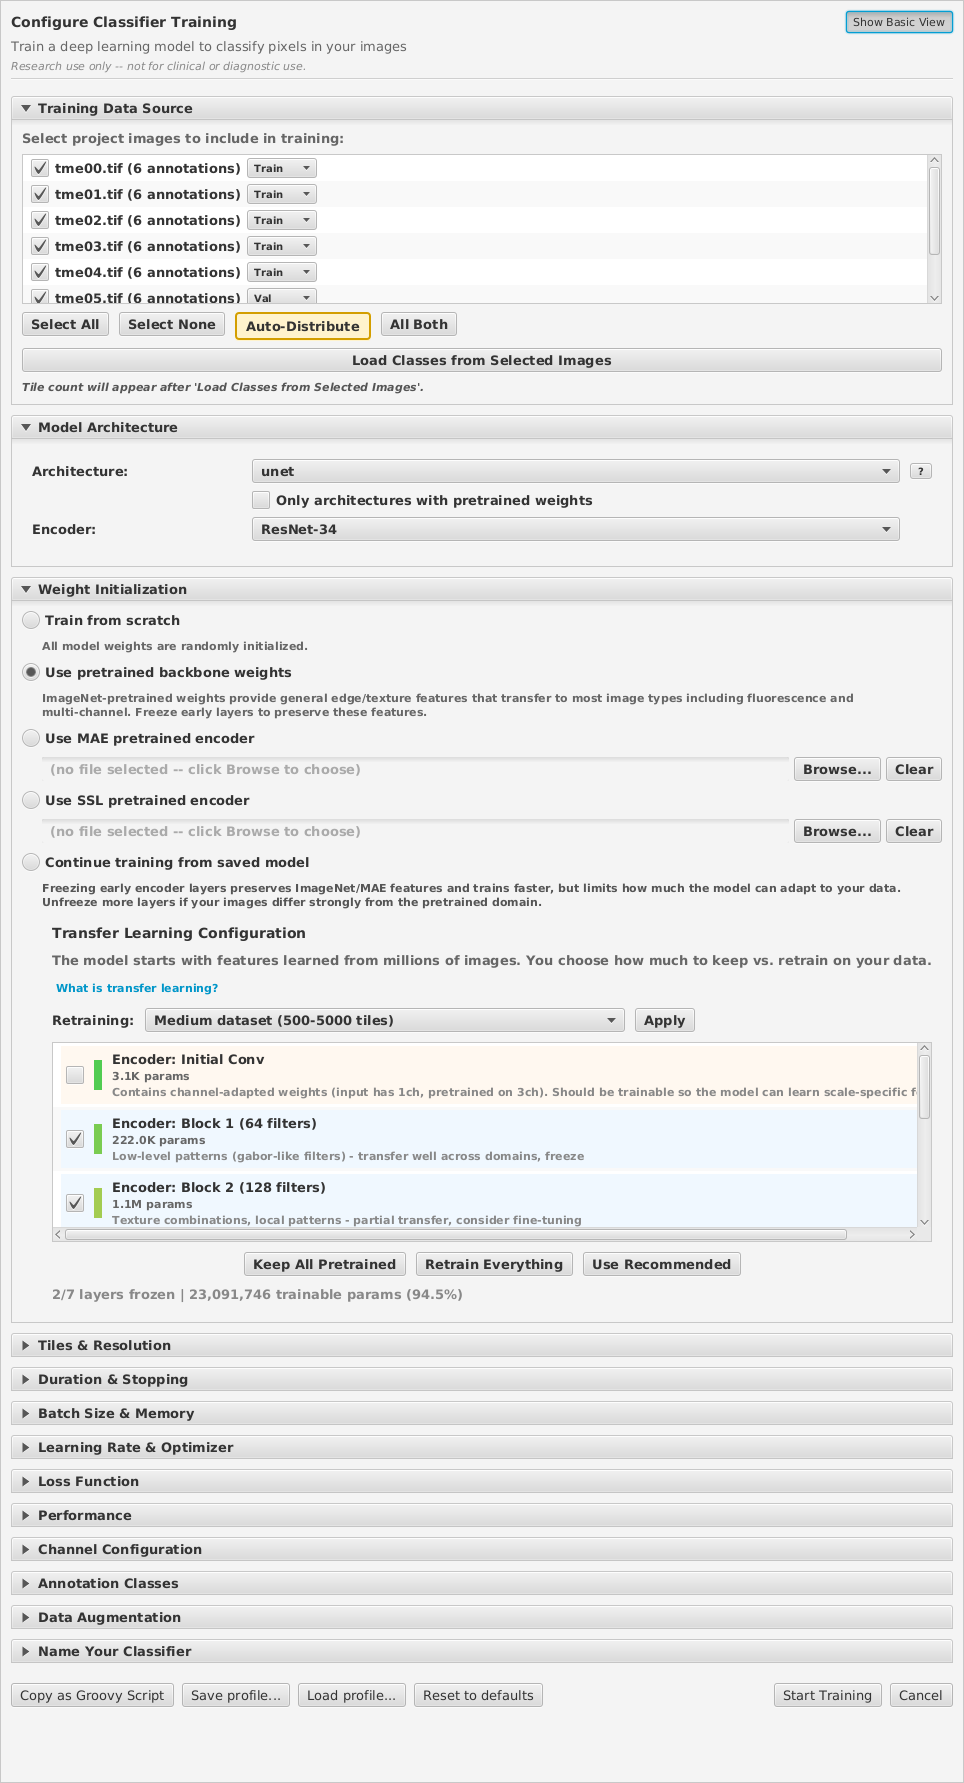
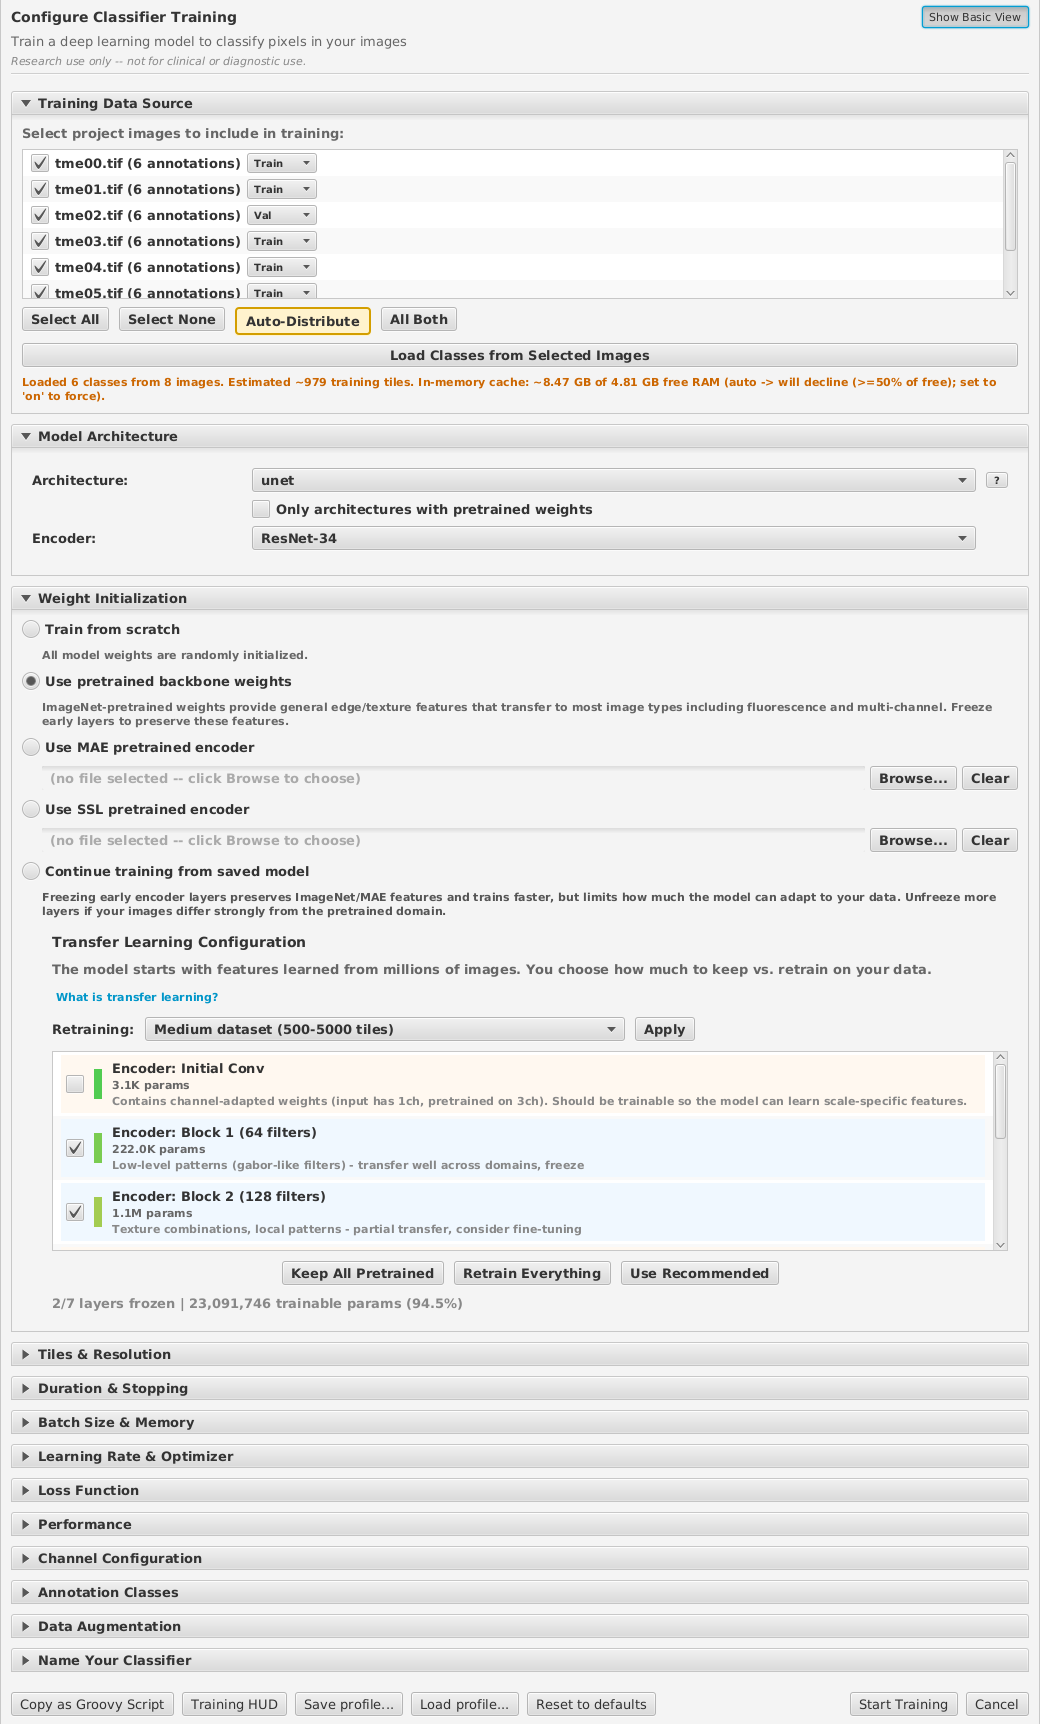
fix(train): the RAM-cache warning colour was always painted over green
updateTileEstimateLabel set the label green AFTER appendInMemoryCacheEstimate
had set it orange (cache declined) or red (cache larger than free RAM), so
every warning rendered green. Found when re-rendering the Train dialog
figure: the line said "auto -> will decline" in green. The default is now set
first.

Also re-renders docs/images/train-dialog-configure-classifier.png through
harness/DlTrainingDialogShotScenario (it gains the Training HUD button and the
loaded estimate line), with the machine-local "unfinished training" banner
cropped off, and updates its alt text.

Claude-Session: https://claude.ai/code/session_01N4ZFToSsHCjtBUjwWur5XU

diff --git a/src/main/java/qupath/ext/dlclassifier/ui/TrainingDialog.java b/src/main/java/qupath/ext/dlclassifier/ui/TrainingDialog.java
@@ -5929,10 +5929,13 @@ public class TrainingDialog {
             StringBuilder sb = new StringBuilder();
             sb.append(String.format(
                     "Loaded %d classes from %d images. Estimated ~%,d training tiles.", classCount, imageCount, est));
+            // Reset placeholder italic styling now that the real estimate is
+            // shown -- BEFORE the cache estimate, which sets orange or red when
+            // the cache will be declined or overflow RAM. This used to run
+            // after it, so the warning colour was always painted over green.
+            tileEstimateLabel.setStyle("-fx-text-fill: #2a7a2a; -fx-font-size: 11px;");
             appendInMemoryCacheEstimate(sb, est);
             tileEstimateLabel.setText(sb.toString());
-            // Reset placeholder italic styling now that the real estimate is shown.
-            tileEstimateLabel.setStyle("-fx-text-fill: #2a7a2a; -fx-font-size: 11px;");
             tileEstimateLabel.setVisible(true);
             tileEstimateLabel.setManaged(true);
         }

diff --git a/docs/TRAINING_GUIDE.md b/docs/TRAINING_GUIDE.md
@@ -40,7 +40,7 @@ Go to **Extensions > DL Pixel Classifier > Train DL Pixel Classifier...**
 
 The dialog opens in **Basic mode** by default, showing only the essentials: Training Data Source, Annotation Classes, and Classifier Name. Click **"Show All Settings"** in the header to reveal all configuration options. The mode is remembered across sessions.
 
-![Configure Classifier Training dialog in its advanced view. Training Data Source lists the project images, each with a checkbox and a Train/Val role dropdown, above Select All, Select None, Auto-Distribute and All Both buttons and a Load Classes from Selected Images button. Model Architecture holds an Architecture dropdown set to unet, a checkbox reading Only architectures with pretrained weights, and an Encoder dropdown set to ResNet-34. Weight Initialization offers Train from scratch, Use pretrained backbone weights (selected), Use MAE pretrained encoder, Use SSL pretrained encoder and Continue training from saved model, followed by a Transfer Learning Configuration panel with a Retraining preset dropdown and a scrolling list of encoder blocks with per-block freeze checkboxes and parameter counts. The remaining sections are collapsed, and a button row runs along the bottom](images/train-dialog-configure-classifier.png)
+![Configure Classifier Training dialog in its advanced view. Training Data Source lists the project images, each with a checkbox and a Train/Val role dropdown, above Select All, Select None, Auto-Distribute and All Both buttons, a Load Classes from Selected Images button, and an orange line giving the estimated training tiles and warning that the in-memory cache would exceed half of free RAM. Model Architecture holds an Architecture dropdown set to unet, a checkbox reading Only architectures with pretrained weights, and an Encoder dropdown set to ResNet-34. Weight Initialization offers Train from scratch, Use pretrained backbone weights (selected), Use MAE pretrained encoder, Use SSL pretrained encoder and Continue training from saved model, followed by a Transfer Learning Configuration panel with a Retraining preset dropdown and a scrolling list of encoder blocks with per-block freeze checkboxes and parameter counts. The remaining sections are collapsed, and a button row runs along the bottom: Copy as Groovy Script, Training HUD, Save profile, Load profile, Reset to defaults, Start Training and Cancel](images/train-dialog-configure-classifier.png)
 
 In advanced mode, the dialog has collapsible titled pane sections:
 

diff --git a/docs/images/IMAGE_REGISTRY.md b/docs/images/IMAGE_REGISTRY.md
@@ -16,7 +16,7 @@ This file tracks the relationship between documentation screenshots and the Java
 |------------|--------------------|---------------|--------|
 | `menu-dl-pixel-classifier.png` | `SetupDLClassifier.java` | 2026-09-09 | OK |
 | `workflow-map.png` | drawn from `workflow-map.spec` -- not a screenshot, so this check skips it; `tools/render_workflow_map.py --check` verifies its labels instead, in CI | 2026-10-16 | OK |
-| `train-dialog-configure-classifier.png` | `ui/TrainingDialog.java` | 2026-07-22 | OK |
+| `train-dialog-configure-classifier.png` | `ui/TrainingDialog.java` | 2026-10-19 | OK (rendered by `harness/DlTrainingDialogShotScenario.java`; banner above the heading cropped) |
 | `train-dialog-tiles-resolution-preview.png` | `ui/TrainingDialog.java` | 2026-07-22 | OK |
 | `train-dialog-transfer-learning-layers.png` | `ui/TrainingDialog.java`, `ui/LayerFreezePanel.java` | 2026-07-22 | OK |
 | `training-progress-dialog.png` | `ui/ProgressMonitorController.java` | 2026-07-22 | OK |
